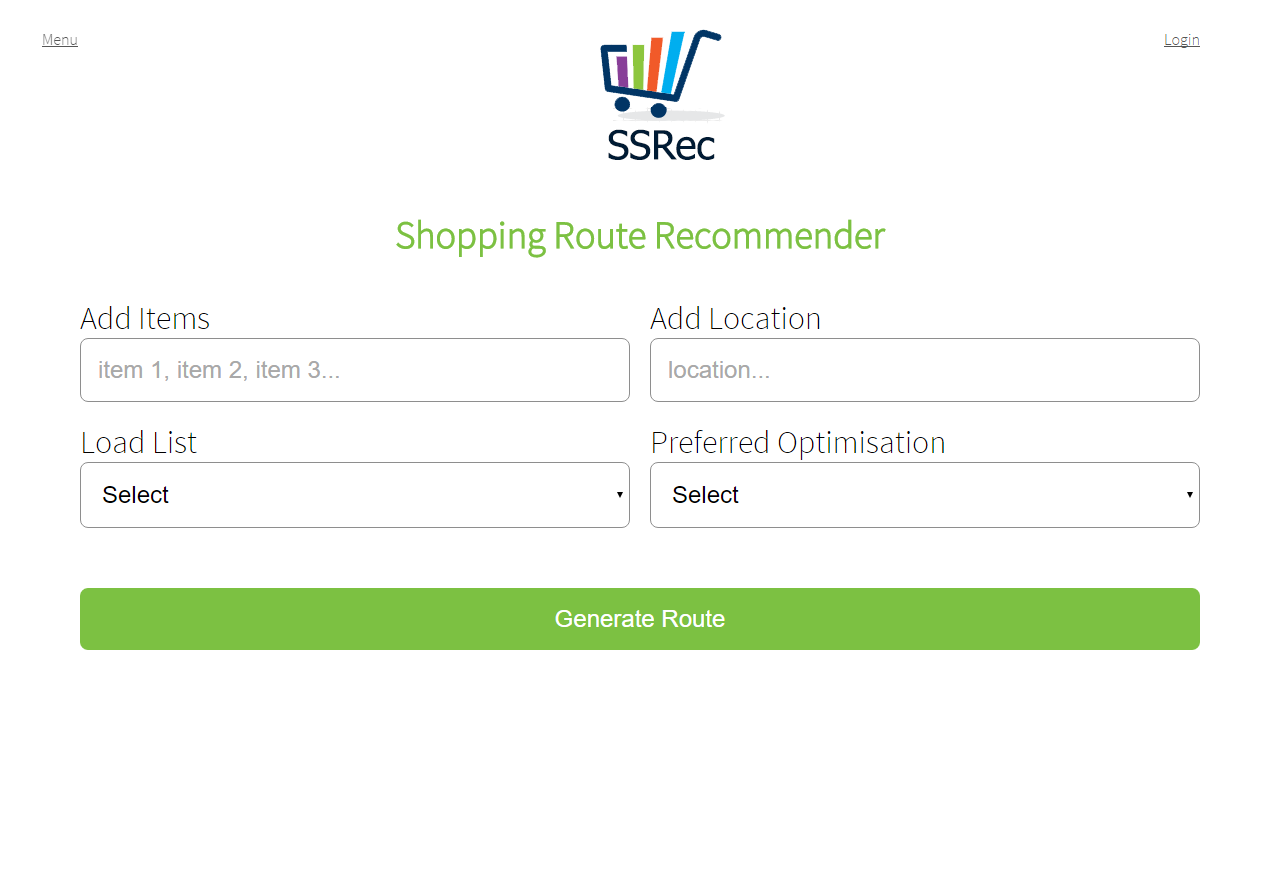
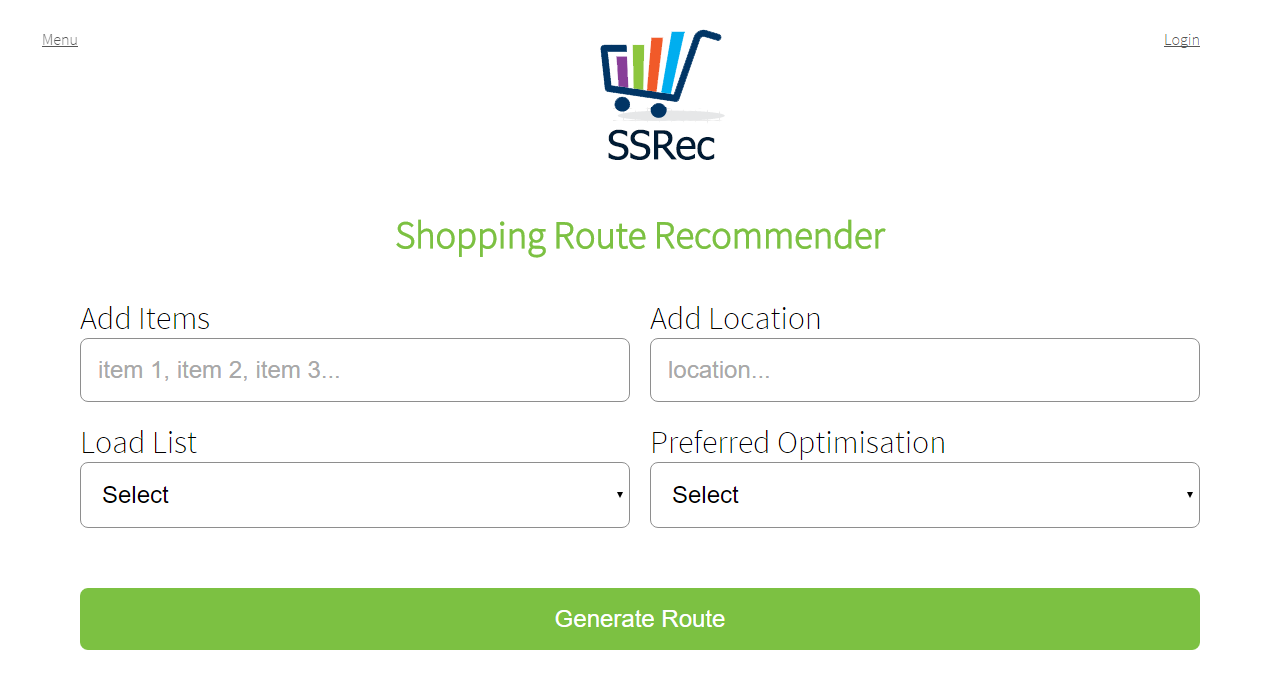
Edited the index page image. Edited the SRS. Need to still update the web application screenshots.

diff --git a/Documentation/SRS/SRS.tex b/Documentation/SRS/SRS.tex
@@ -299,7 +299,7 @@
 		
 				The Shopping Route Recommender (SRRec) GUI is simple to use and designed such that the user is able to access all the main features easily. The interface communicates with the data layer which then incorporates Googles' API to deliver the most accurate and optimised shopping route. . Furthermore, the application is easily portable between devices of different screen sizes, in that the content on the pages automatically adjust to fit the appropriate screen.\\
 				
-				The most common features of SSRec's GUI are:
+				The most common features of SRRec's GUI are:
 				
 				\begin{itemize}
 					\item The sidebar menu accessible from all the subsequent pages:
@@ -313,21 +313,21 @@
 					\begin{figure}[h!]
 						\centering
 						\includegraphics[scale = 0.5]{Images/index.PNG}
-						\label{menu}
+						\label{home page}
 					\end{figure}
 					
 					\item Route and Directions page generated after a user has input their shopping list, location and preferred optimisation:
 					\begin{figure}[h!]
 						\centering
 						\includegraphics[scale = 0.5]{Images/routeGen.PNG}
-						\label{menu}
+						\label{map page}
 					\end{figure}
 					
 					\item The page where a user can either login or create a new account:
 					\begin{figure}[h!]
 						\centering
 						\includegraphics[scale = 0.5]{Images/login.PNG}
-						\label{menu}
+						\label{login page}
 					\end{figure}
 					
 					\vspace{-12mm}
@@ -335,24 +335,24 @@
 					\begin{figure}[h!]
 						\centering
 						\includegraphics[scale = 0.5]{Images/createAccount.PNG}
-						\label{menu}
+						\label{create account page}
 					\end{figure}
 													
 				\end{itemize}
 		
 		\subsection{Hardware Interfaces}
 		
-			The SSRec application does not require nor support any hardware interfaces.
+			The SRRec application does not require nor support any hardware interfaces.
 		
 		\subsection{Software Interfaces}
 		
-			SSRec is a web application. Therefore it will be compatible with all operating systems including smartphone and tablet OS. It only needs to be compatible on a web browser which support html, css, javascript and php. It has been tested on Motzilla Firefox, Google Chrome and Microsoft Edge.\\
+			SRRec is a web application. Therefore it will be compatible with all operating systems including smartphone and tablet operating systems. It only needs to be compatible on web browsers which support HTML, CSS, JavaScript and PHP. It has been tested on Motzilla, Firefox, Google Chrome, Microsoft Edge and Safari web browsers. \\
 			
-			Furthermore the application makes use of the Google Maps API in order to generate the optimised route displayed on a map.
+			Furthermore, the application makes use of the Google Maps API in order to generate and display the map with the optimised shopping route. 
 		
 		\subsection{Communications Interfaces}
 		
-			Since SSRec is a web application, network communication are necessary. It runs off a cloud hosted server such that it is readily available with an internet connection so to communicate with the both the user and the Google Maps API. Another communication interface is through the users GPS (if available), where the application is able to locate the nearest shops.
+			Since SRRec is a web application, network communications are necessary. It runs off a cloud hosted server such that it is readily available with an internet connection so as to communicate with both the user and the Google Maps API. Another communication interface is through the users GPS (if available), which the application uses to locate the nearest shops.
 	
 	\section{Other Non-functional Requirements}
 	
@@ -376,9 +376,9 @@
 			
 			This application incorporates the use of user credentials to allow users to store and access their lists on a 	server without losing their list or having to keep the website active. The application has a simplistic graphical interface that is easy-to-use. The website is easily interpreted and a new user should be able to use the website without requiring any sort of tutorial or explanations.
 		
-		\subsection{Other Requirements}
-		
-			\textbf{NOT APPLICABLE TO US YET}
+%		\subsection{Other Requirements}
+%		
+%			\textbf{NOT APPLICABLE TO US YET}
 		
 	%----------------------------------------------------------------------------------------
 	%	REFERENCES
